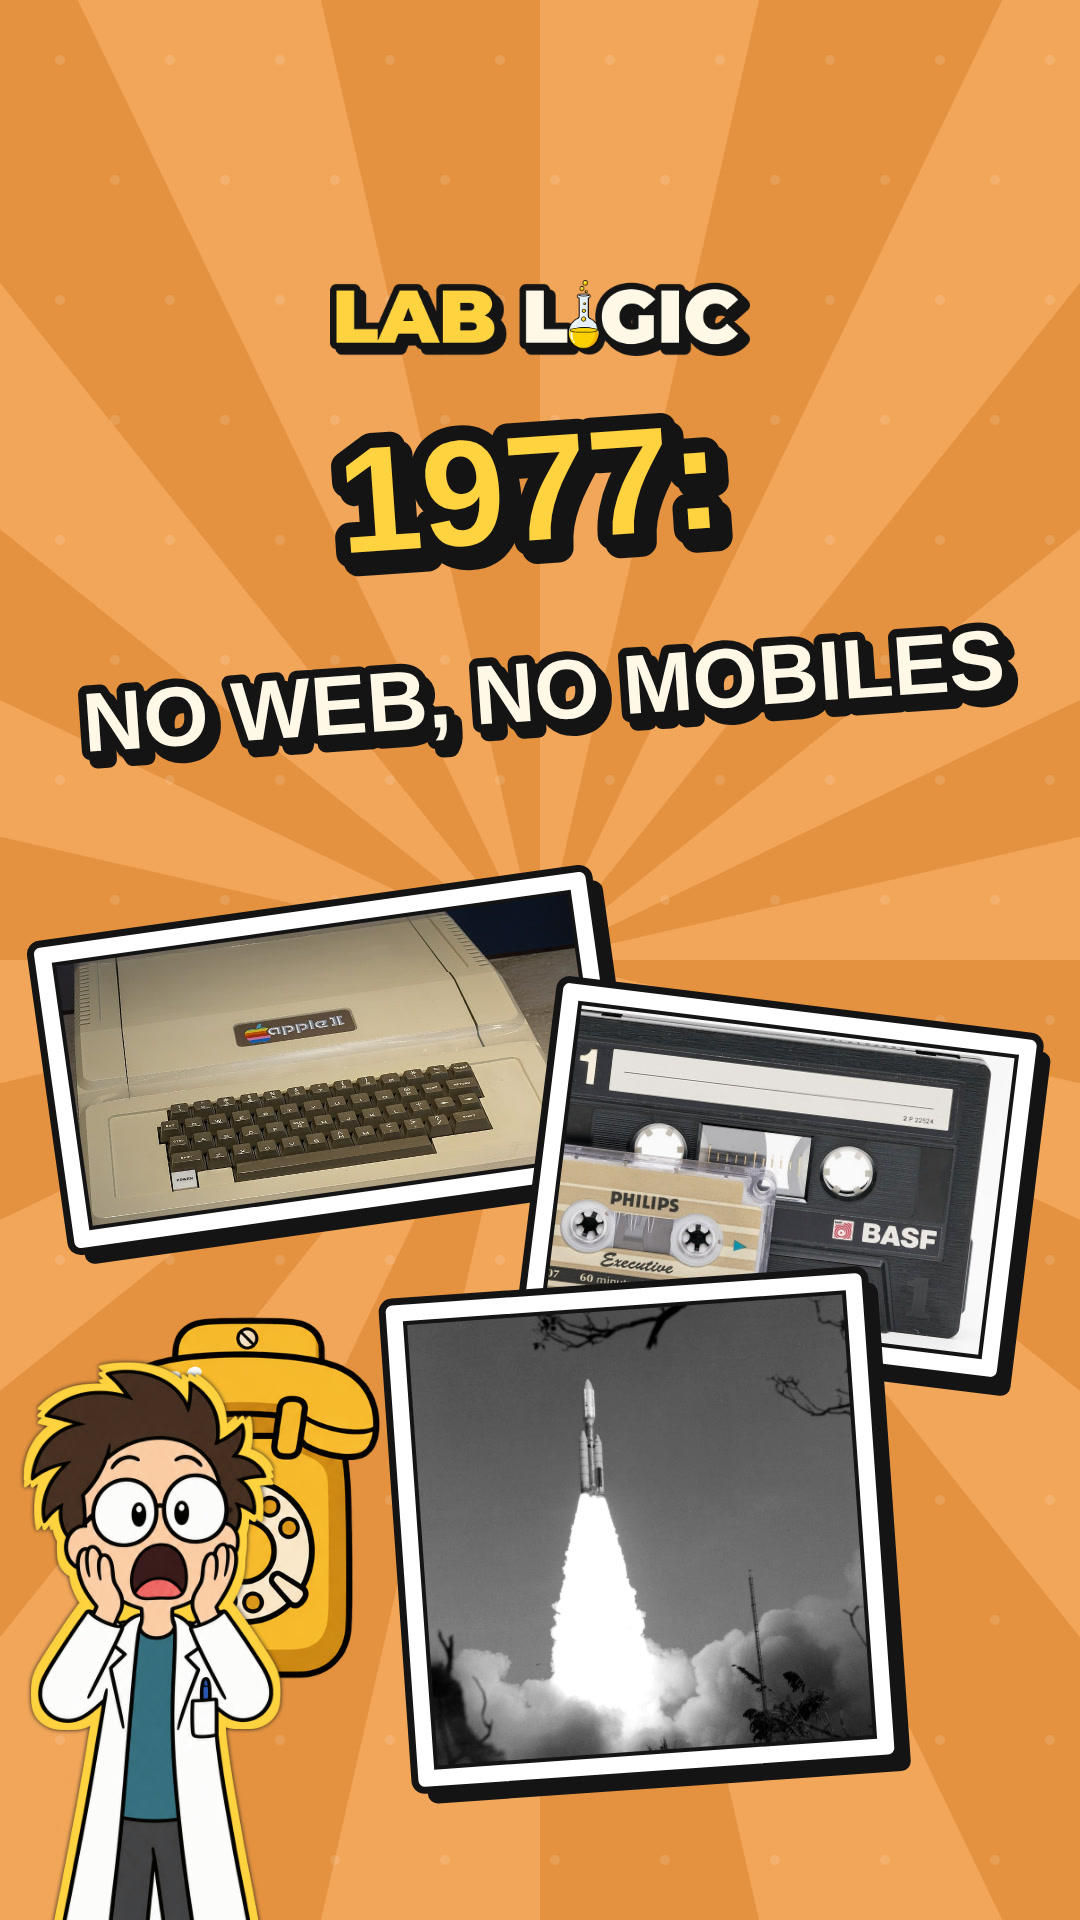
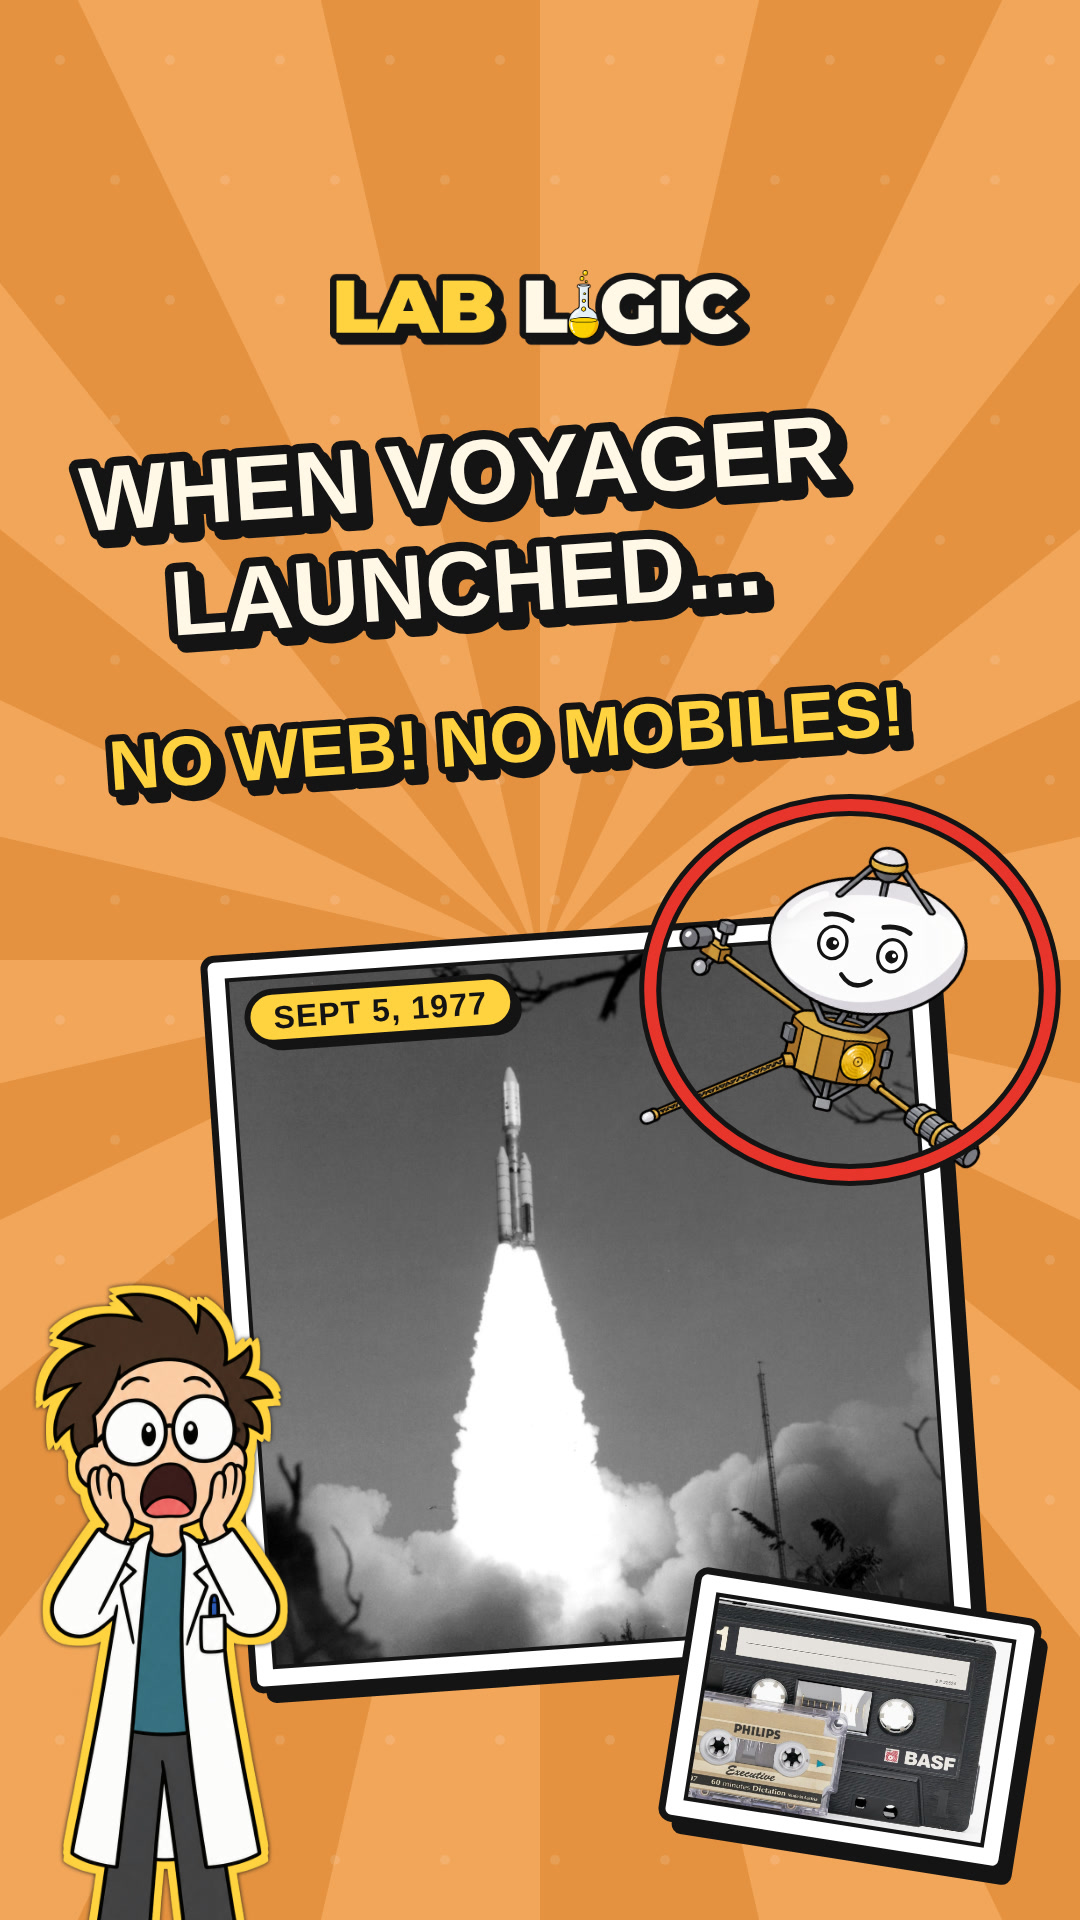
1977 Short: cover rebuilt around the Voyager launch
Claude-Session: https://claude.ai/code/session_015xk9XDSoC2XGKGSmzAa8PH

diff --git a/video/src/y1977/Main.tsx b/video/src/y1977/Main.tsx
@@ -214,24 +214,26 @@ const S = {
   end: VO_END + 0.3,
 };
 
-// Separate cover (Still "Y1977Cover"): photo collage + "1977: NO WEB / NO PHONES?!"
+// Separate cover (Still "Y1977Cover"): built around the Voyager launch - launch photo as the hero, cartoon Voyager
+// flying out of it, "WHEN VOYAGER LAUNCHED / IT WAS 1977" + small 1977 items (cassette, rotary phone).
 export const Y1977Cover: React.FC = () => (
   <AbsoluteFill style={{backgroundColor: RETRO}}>
     <svg width={W} height={H} viewBox={`0 0 ${W} ${H}`} style={{position: 'absolute'}}>
       <Retro t={0} />
-      <Photo src="apple2" iw={1000} ih={512} x={330} y={1060} w={520} t={10} t0={0} rot={-8} />
-      <Photo src="cassette" iw={1000} ih={688} x={780} y={1180} w={440} t={10} t0={0} rot={7} />
-      <Photo src="launch" iw={889} ih={900} x={640} y={1530} w={440} t={10} t0={0} rot={-4} />
-      <WallPhone x={230} y={1520} s={0.75} t={0} />
+      <Photo src="launch" iw={889} ih={900} x={590} y={1300} w={680} t={10} t0={0} rot={-4} label="SEPT 5, 1977" />
+      <Photo src="cassette" iw={1000} ih={688} x={850} y={1720} w={300} t={10} t0={0} rot={9} />
+      <Voyager x={850} y={1000} s={0.9} t={0.4} mood="happy" rot={12} />
+      <RedCircle x={850} y={990} r={185} />
     </svg>
-    <BigSci pose="shocked" x={150} y={1500} headR={92} />
+    <BigSci pose="shocked" x={160} y={1420} headR={90} />
     <svg width={W} height={H} viewBox={`0 0 ${W} ${H}`} style={{position: 'absolute'}}>
       <g transform="rotate(-4 540 640)" data-skip="cover headline">
-        <BigText x={540} y={540} text="1977:" size={150} fill={C.yellow} />
-        <BigText x={540} y={720} text="NO WEB, NO MOBILES" size={84} />
+        <BigText x={470} y={500} text="WHEN VOYAGER" size={92} />
+        <BigText x={470} y={610} text="LAUNCHED..." size={92} />
+        <BigText x={500} y={760} text="NO WEB! NO MOBILES!" size={70} fill={C.yellow} />
       </g>
     </svg>
-    <Img src={staticFile('iceberg/wordmark.png')} style={{position: 'absolute', left: 540 - 210, top: 280, width: 420}} />
+    <Img src={staticFile('iceberg/wordmark.png')} style={{position: 'absolute', left: 540 - 210, top: 270, width: 420}} />
   </AbsoluteFill>
 );
 
